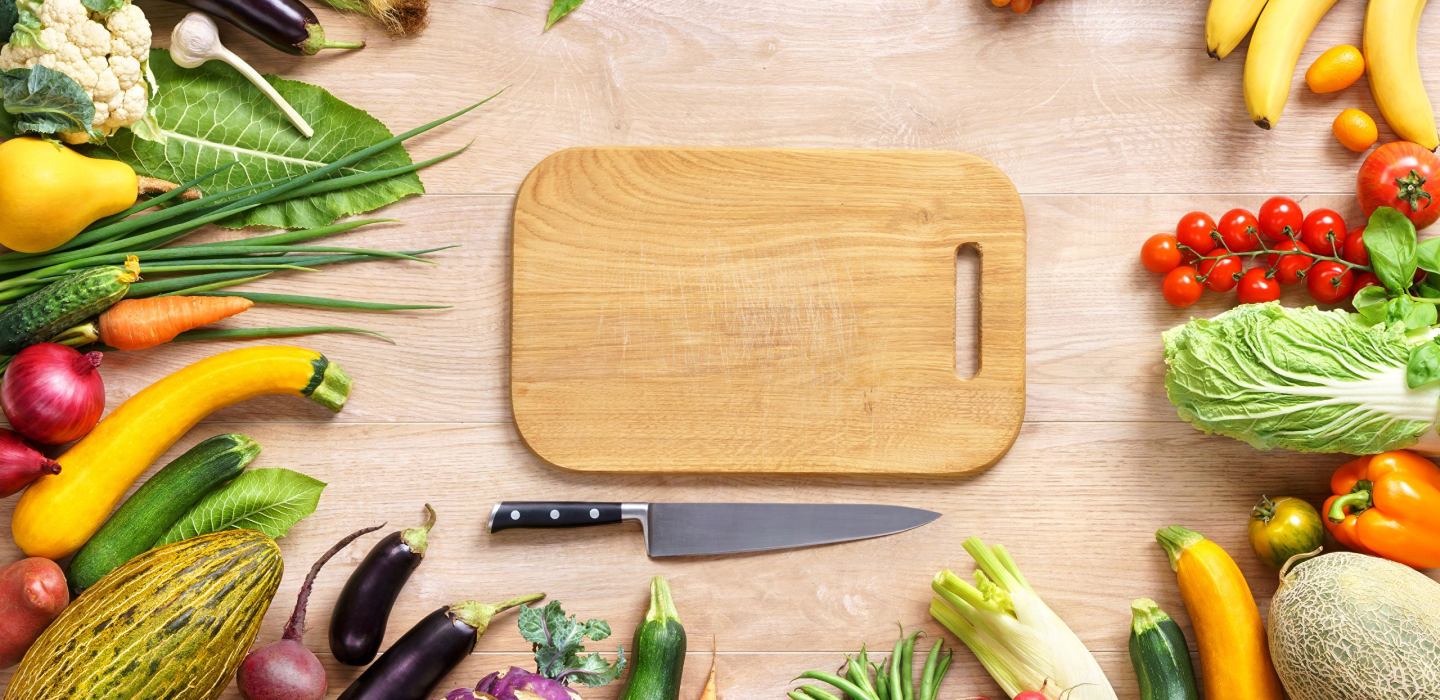
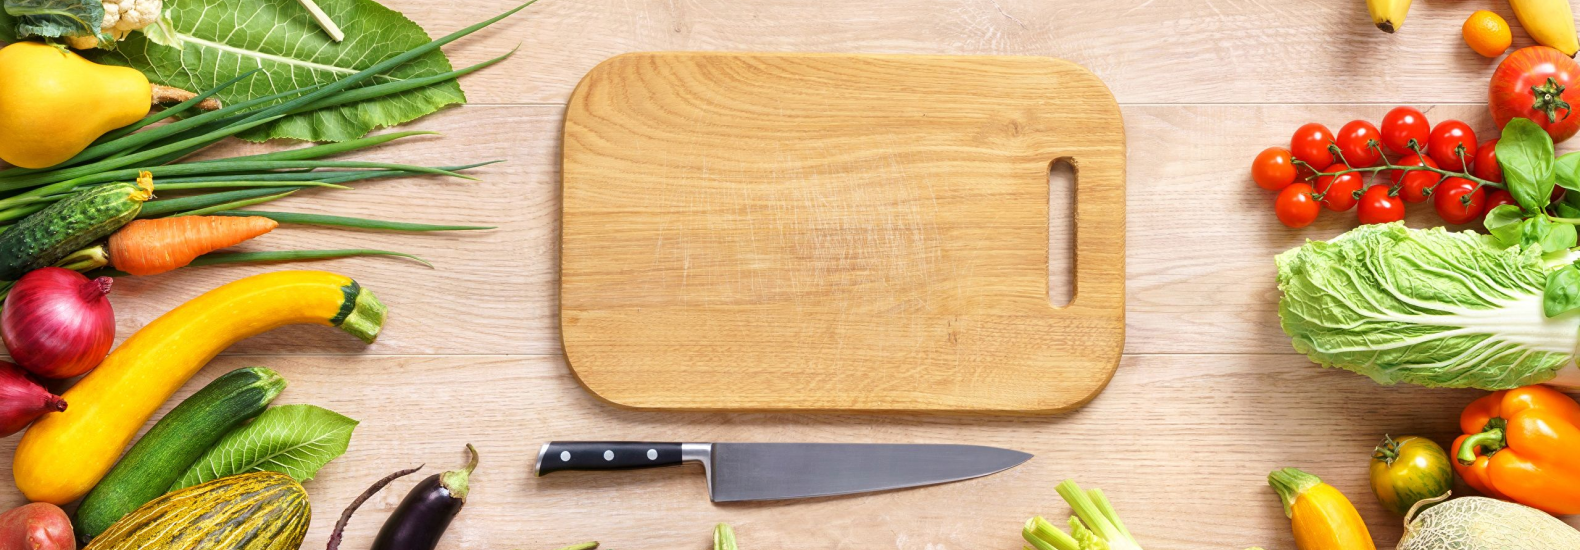
primeiramudanca
mudei a primeira seçao definitivamente

diff --git a/css/estilos.css b/css/estilos.css
@@ -8,24 +8,66 @@ header {
 	height: 550px;
 	background-color: transparent;
 }
+
 .divi {
-	background-image: url('..//imagens/imgf.png');
+	background-image: url('..//imagens/imgfundo.png');
 	background-repeat: no-repeat;
 	height: 550px;
-	width: 1440px;
-	margin: 0 auto;
 }
-
-
-
 
 #segunda-parte {
 	height: 700px;
 	background-color: black;
 }
+
 #divisao {
 	background-color: #3B2A43;
 	height: 15px;
+}
+
+.links {
+	color: #FFF;
+	font-family: 'Inter';
+	font-style: normal;
+	font-weight: 200px;
+	font-size: 40px;
+	line-height: 85px;
+
+}
+.mãe {
+	display: flex;
+	justify-content: center;
+	margin-right: 40px;
+}
+.d {
+	margin-left: 84px;
+	margin-top: 20px;
+}
+.b {
+	margin-left: 84px;
+}
+.botao {
+	width: 512px;
+	height: 56px;
+	border-radius: 8px;
+	font-size: 2rem;
+	color: #FFF;
+	text-decoration: none;
+	display: flex;
+	justify-content: center;
+	align-items: center;
+	margin: 0 auto;
+	font-weight: 400px;
+	font-family: 'Inter';
+}
+.bo1 {
+	background-color: #7B1FA2;
+	margin-top: 46px;
+	margin-bottom: 16px;
+}
+.divb {
+	display: flex;
+	padding-top: 312px;
 }
 
 

diff --git a/index.html b/index.html
@@ -9,15 +9,39 @@
 <body>
 
 	<header>
-			<img src="imagens/baner.png">
+		<div class="mãe">
+			<div class="d">
+				<a  href="" class="links">Início</a>
+			</div>
+			<div class="d">
+				<a href="" class="links">Receitas</a>
+			</div>
+			<div class="b">
+				<img src="imagens/baner.png">
+			</div>
+			<div class="d">
+				<a href="" class="links">Suporte</a>
+			</div>
+			<div class="d">
+				<a href="" class="links">Conta</a>
+			</div>
+		</div>
 	</header>
 
 
 
 	<main>
 		<section id="divisao"></section>
+
 		<section id="primeira-parte">
-			<div class="divi"></div>
+
+			<div class="divi">
+				<div class="divb">
+					<button type="submit" class="botao bo1">Assinar</button>
+					<button type="submit" class="botao bo1">Entrar</button>
+				</div>
+			</div>
+
 		</section>
 
 		<section id="segunda-parte">
